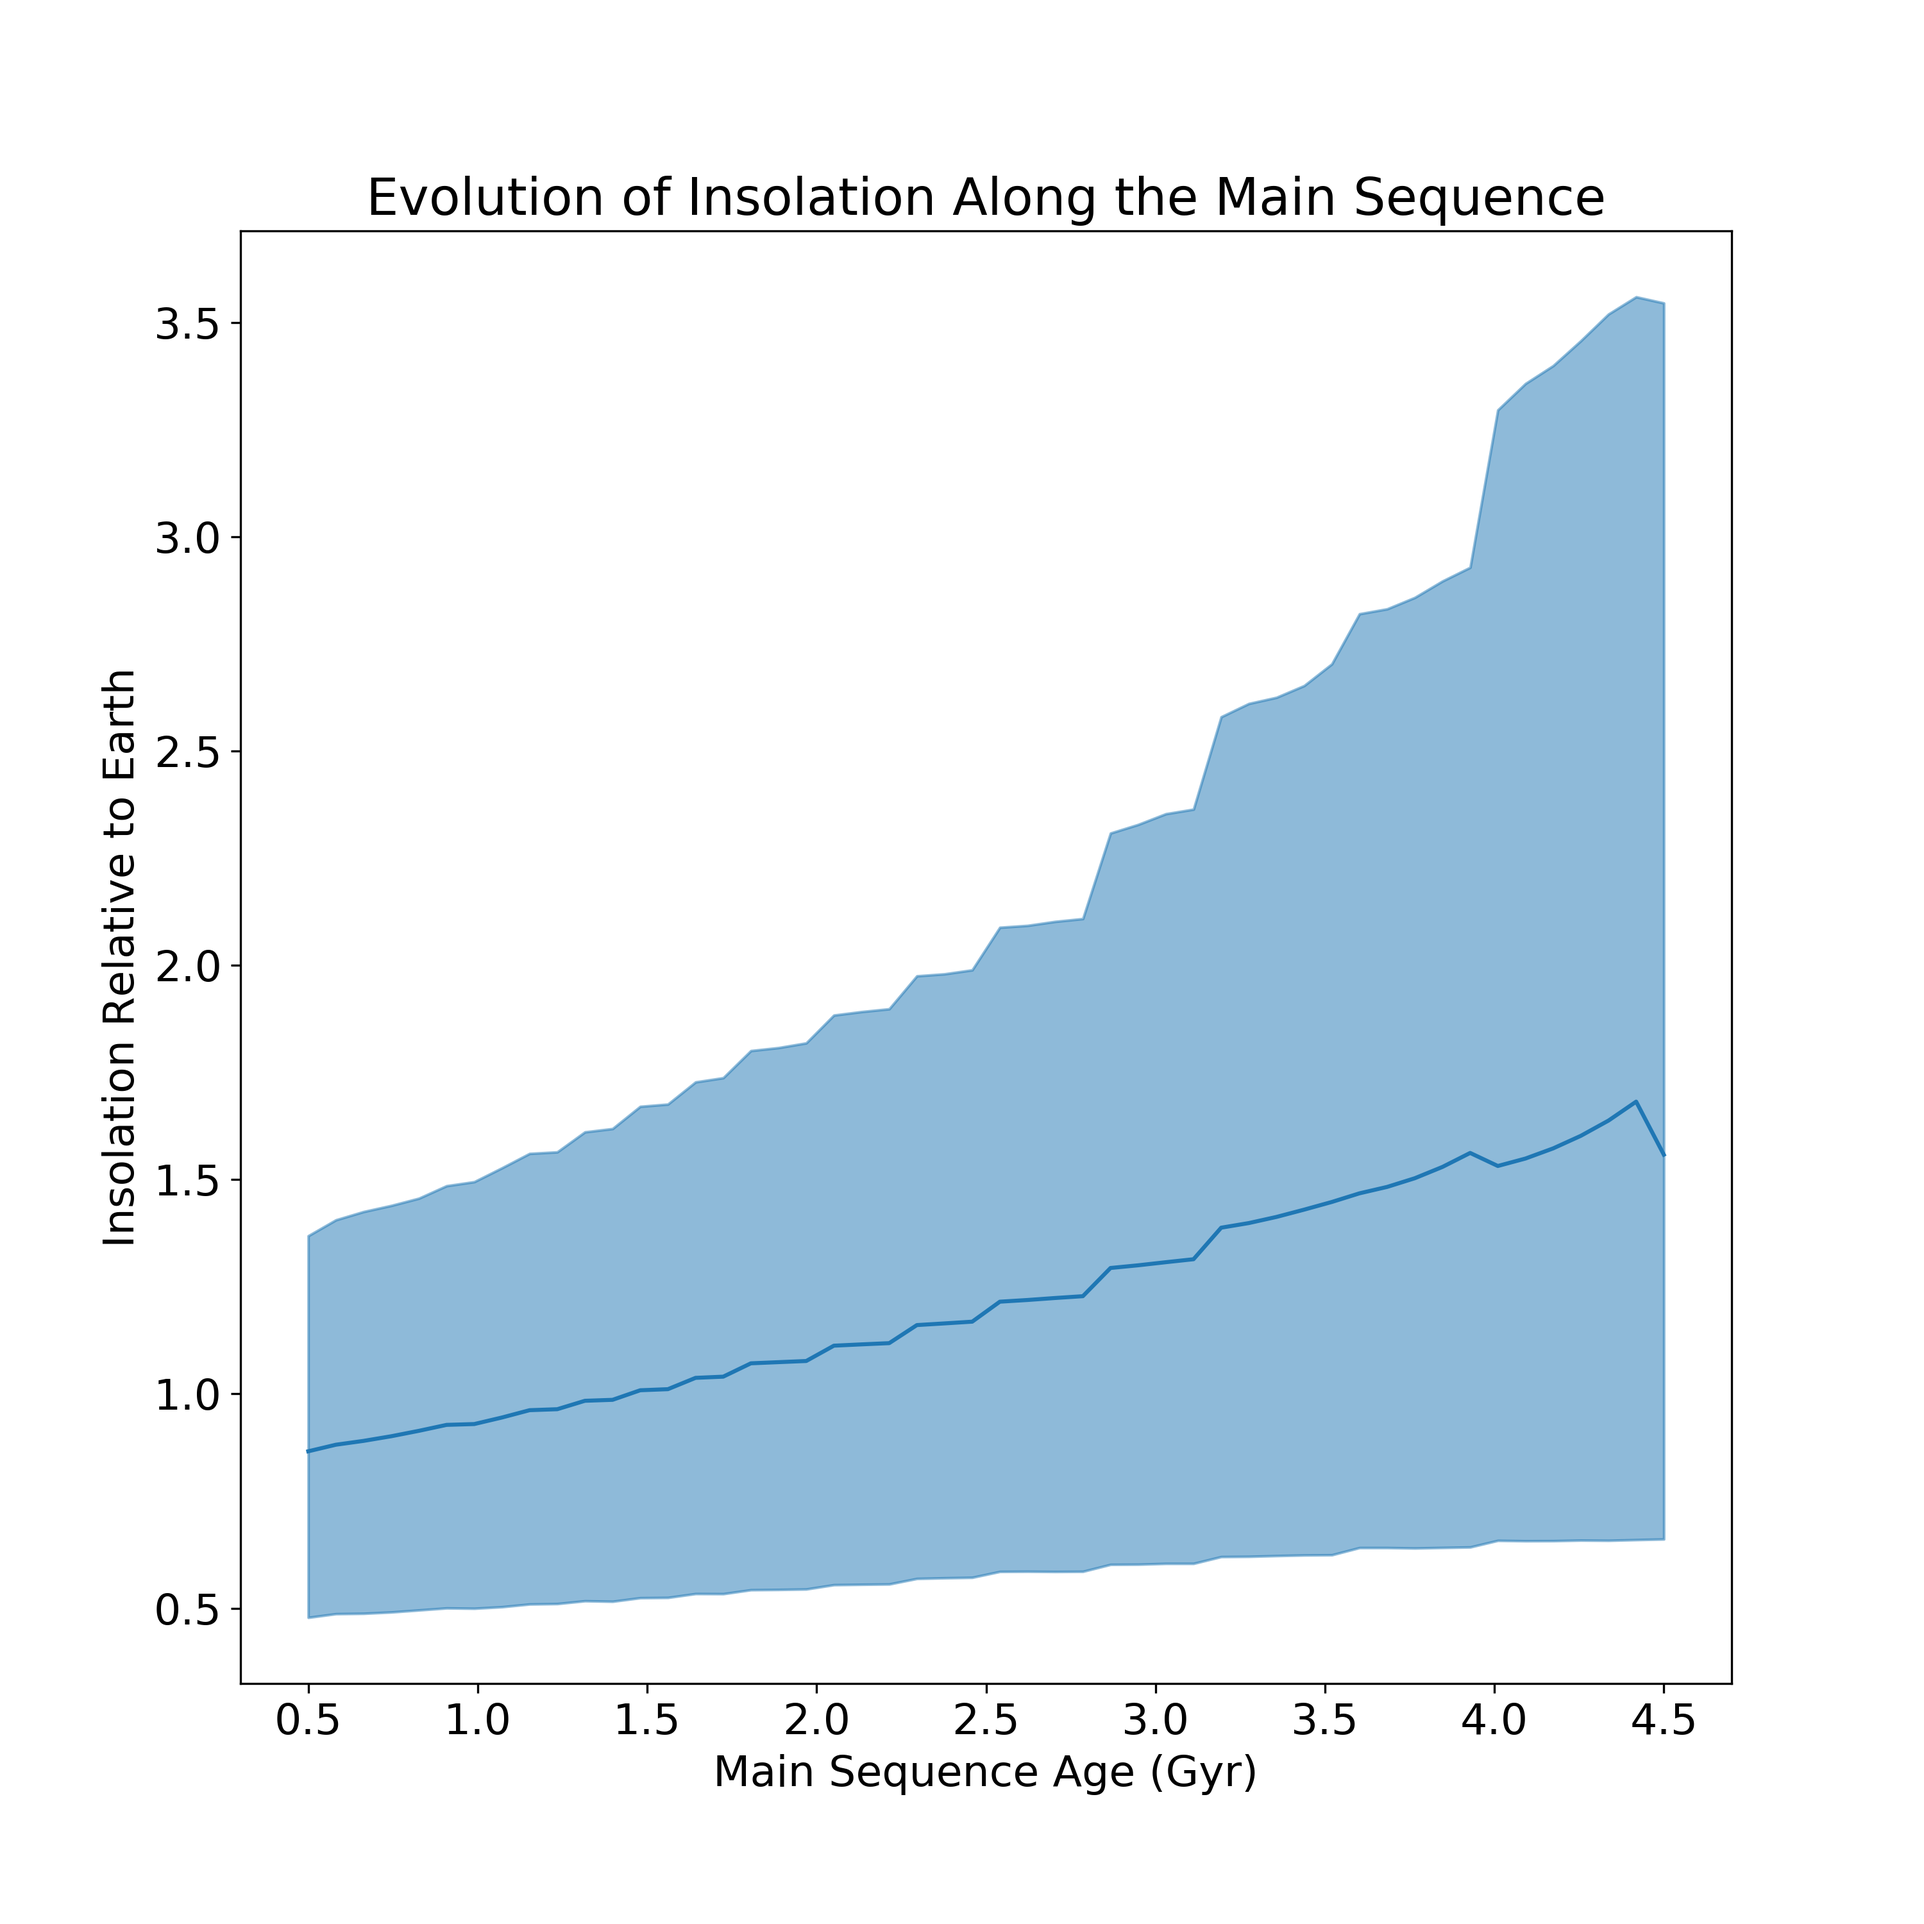
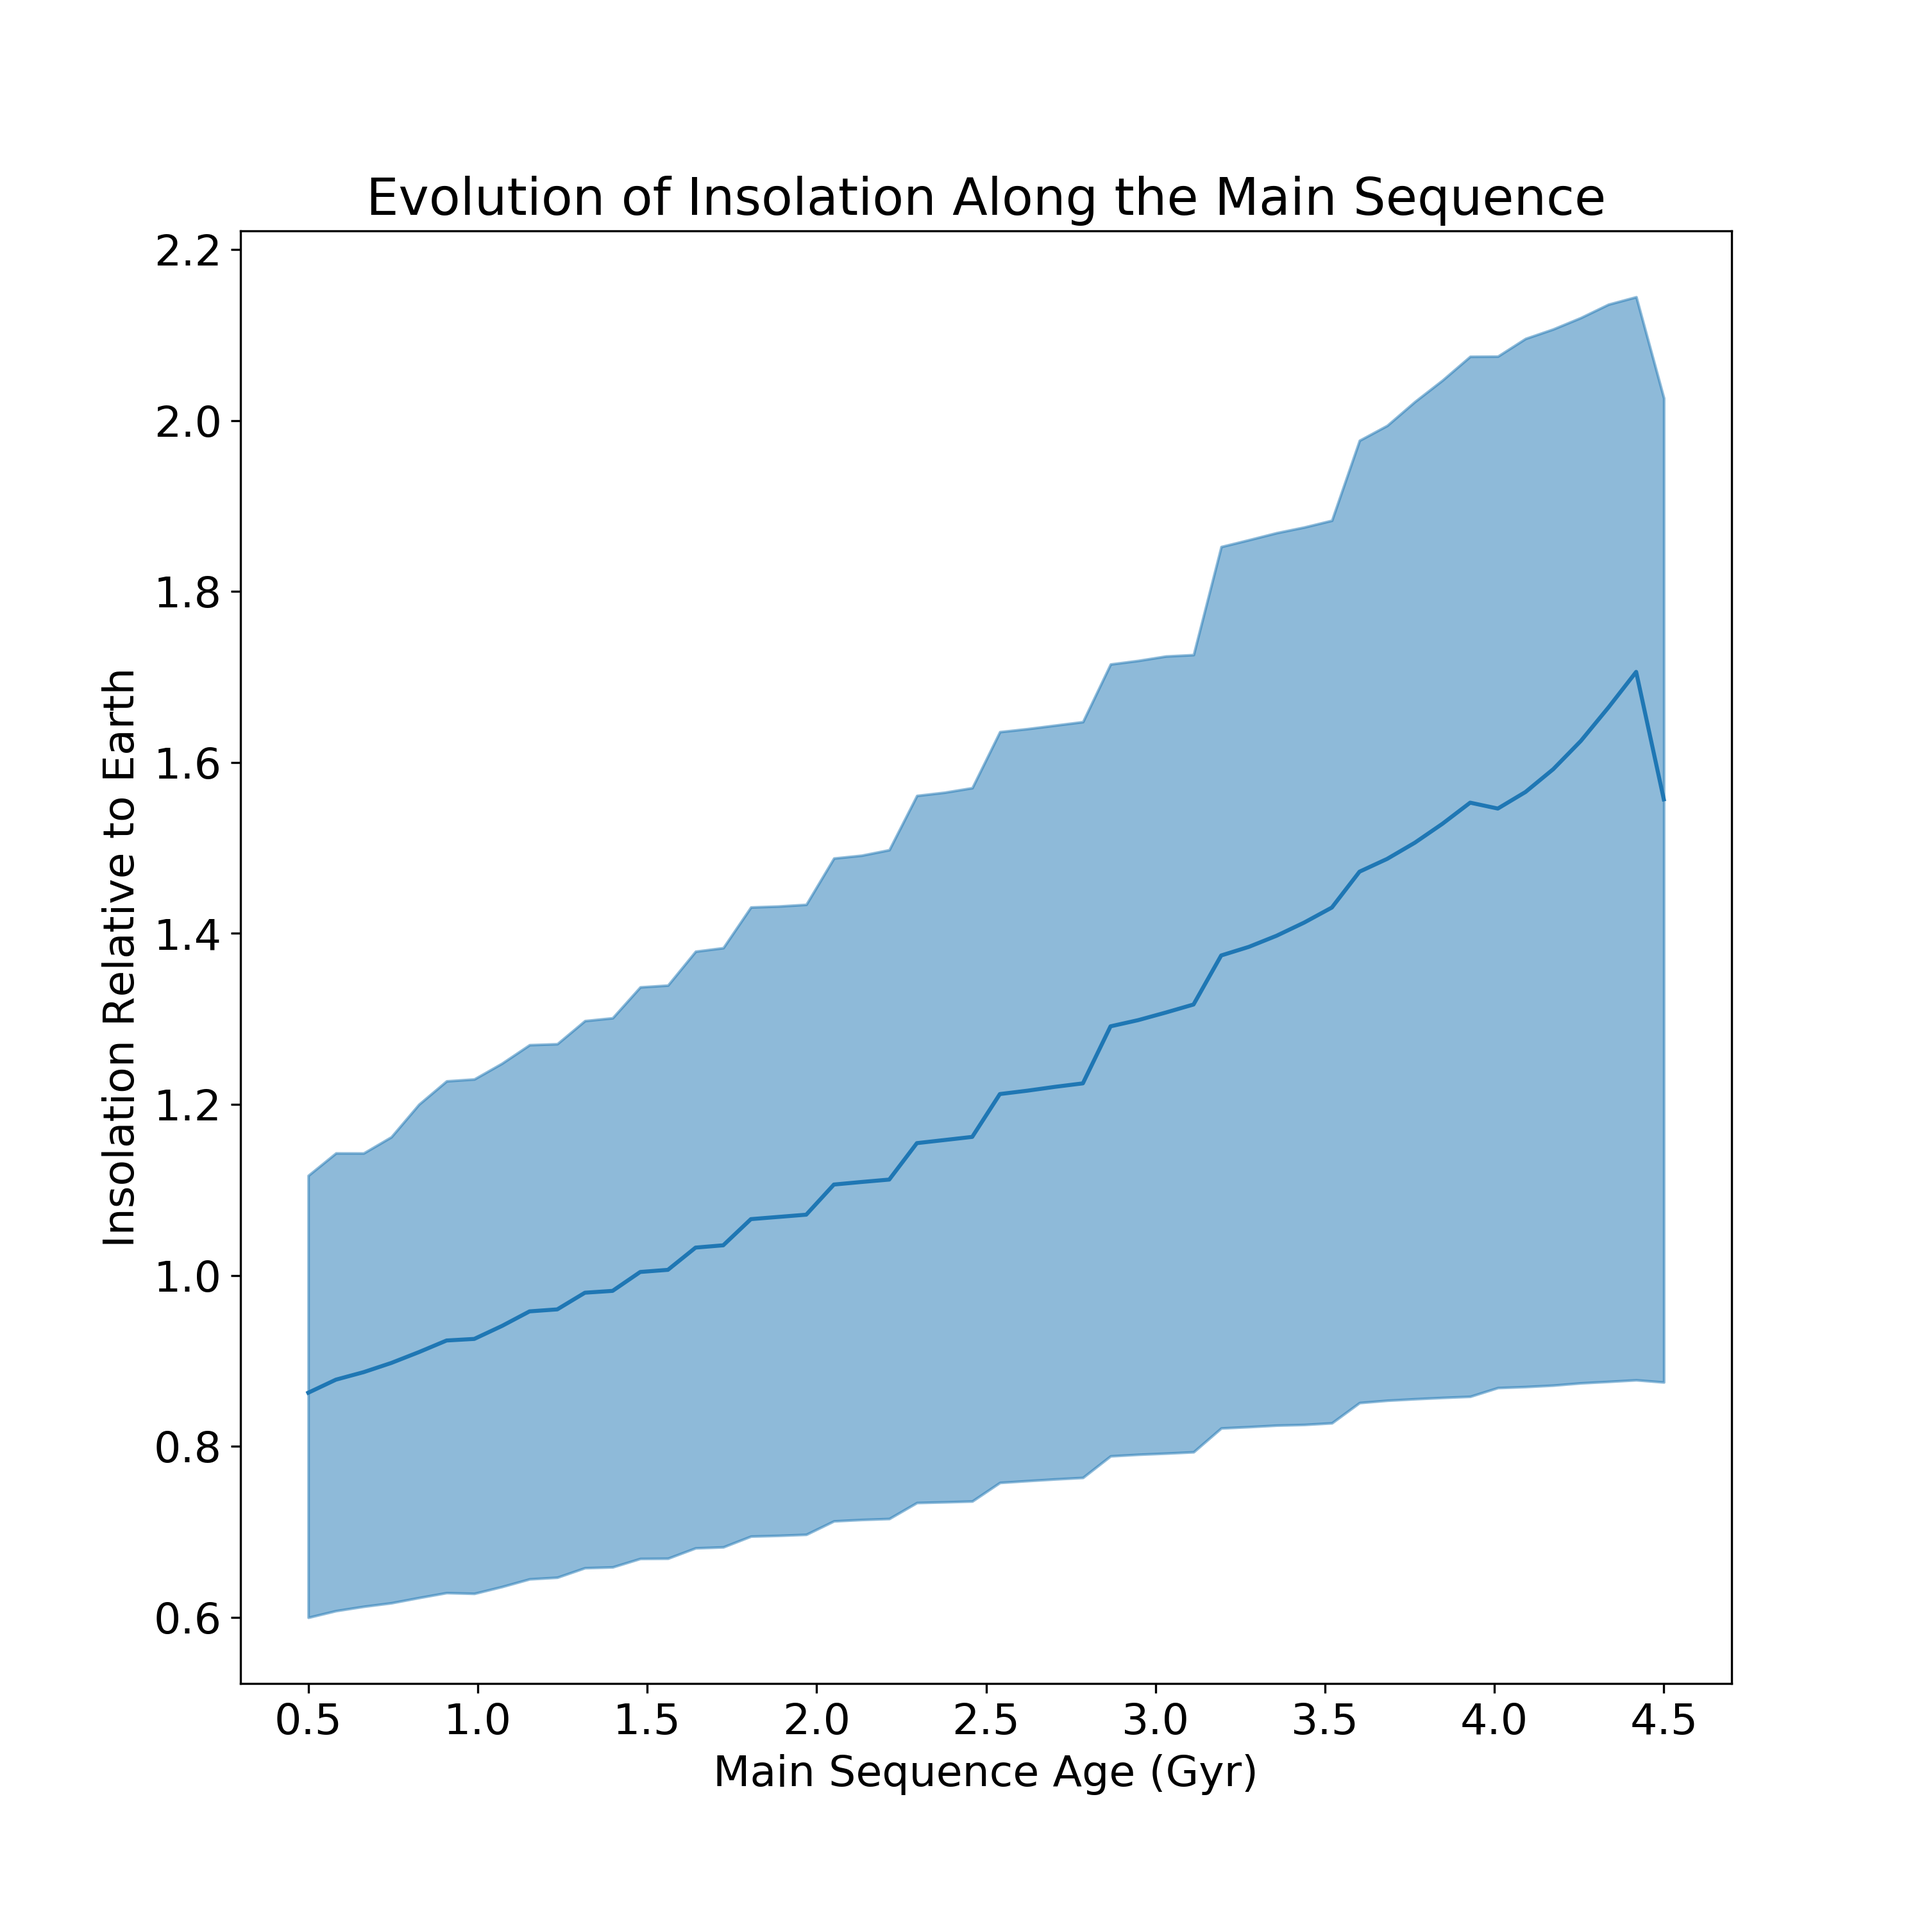
1 sigma

diff --git a/paper/aldebaran.tex b/paper/aldebaran.tex
@@ -198,7 +198,7 @@ We note that this implies that the planet at a semi-major axis of $1.50\, \pm\, 
 % \includegraphics[width=0.75\textwidth]{Aldebaran_lc.png}
 %\includegraphics[width=0.75\textwidth]{aldebaran_lc.eps}
 \includegraphics[width=\textwidth]{insolation.png}
-\caption{Evolution of the insolation of Aldebaran~b relative to the incident sunlight on Earth, as a function of the age of Aldebaran on the main sequence. The solid line is the mean of simulations, and the shaded region extends from the 5th to the 95th percentile. It is likely that Aldebaran~b spent some time on the main sequence with an equilibrium temperature similar to Earth.}
+\caption{Evolution of the insolation of Aldebaran~b relative to the incident sunlight on Earth, as a function of the age of Aldebaran on the main sequence. The solid line is the mean of simulations, and the shaded region represents $1\,\sigma$ equivalent deviations. It is likely that Aldebaran~b spent some time on the main sequence with an equilibrium temperature similar to Earth.}
 \label{insolation}
 \end{figure}
 
